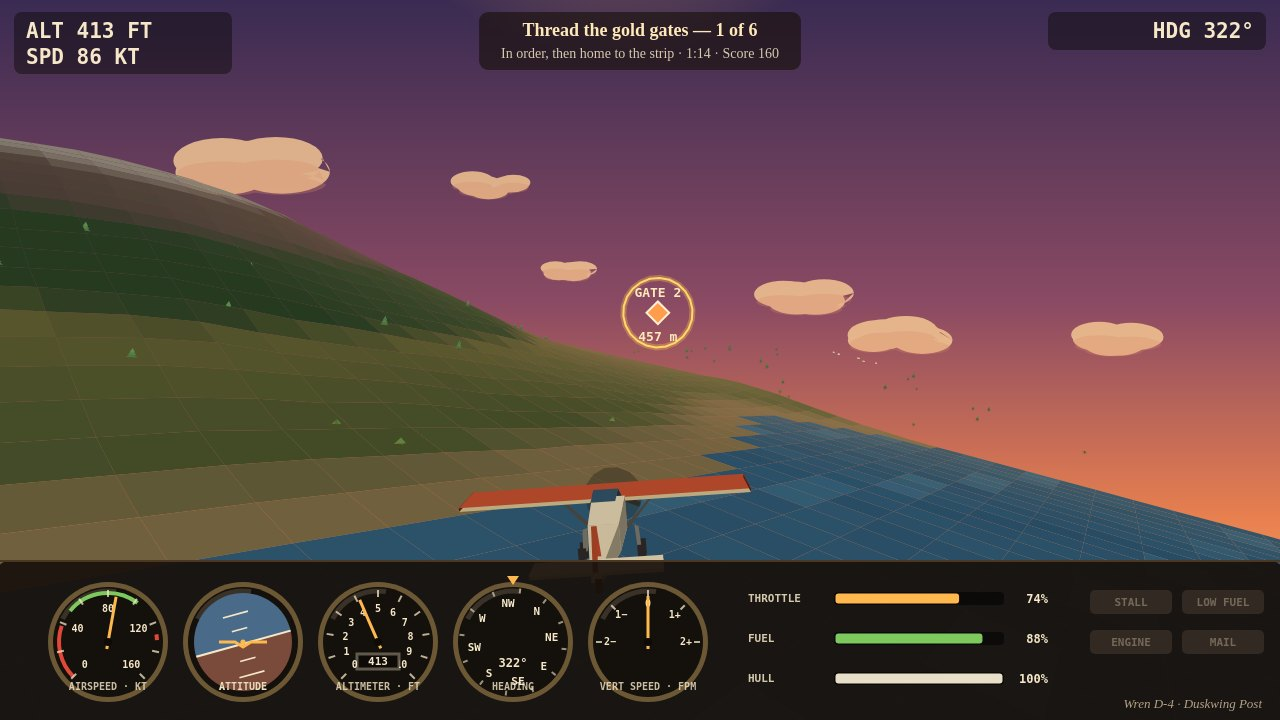
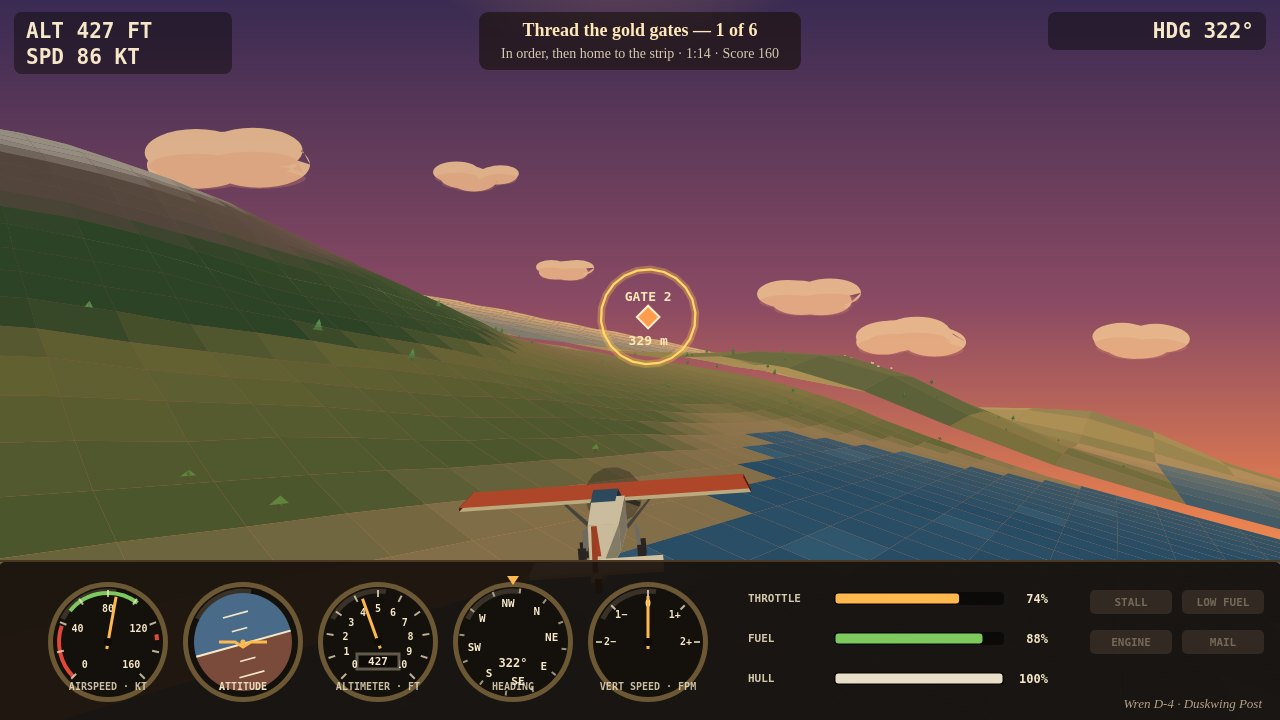
Revision 2: flight-feel and horizon fixes from live playtests
- Drag was 8x too strong: the Wren could never reach rotate speed.
  Quadratic drag now balances thrust near 115 kt and she rotates with
  strip to spare.
- Liftoff is explicit: at rotate speed with the nose up she leaves the
  ground with the climb her pitch asks for.
- A raised nose on the roll no longer bleeds speed (the ground carries
  her weight until the wing does), and the wings stay level on the
  ground — she steers with the tail wheel.
- Two-tier terrain: a coarse outer ring carries the world to the
  horizon, so low flight no longer ends in open sky at 1.2 km.
- Cover gate moved closer (329 m) so the gold ring looms; mail-drop
  staging re-posed so the parachute reads in frame.

diff --git a/game/src/render.js b/game/src/render.js
@@ -173,15 +173,23 @@ function drawRain(ctx, timeSec) {
 // --- terrain, sea and strip ----------------------------------------------
 
 function collectTerrain(list, basis, pal, storm, timeSec) {
-  const cx = Math.round(cam.x / CELL) * CELL;
-  const cz = Math.round(cam.z / CELL) * CELL;
-  const n = GRID_HALF * 2 + 1;
+  // Two tiers: a fine grid around the camera for the ground you fly over,
+  // and a coarse ring beyond it so the world reaches the horizon — at
+  // ground level a 1.2 km world would end in open sky.
+  collectTerrainLayer(list, basis, pal, storm, timeSec, CELL, GRID_HALF, 0);
+  collectTerrainLayer(list, basis, pal, storm, timeSec, 184, 16, 1210);
+}
+
+function collectTerrainLayer(list, basis, pal, storm, timeSec, cell, half, minCentreDist) {
+  const cx = Math.round(cam.x / cell) * cell;
+  const cz = Math.round(cam.z / cell) * cell;
+  const n = half * 2 + 1;
   // Project the shared vertex grid once; quads reuse the corners.
   const vx = new Float32Array(n);
   const vz = new Float32Array(n);
   const heights = [];
   const screen = [];
-  for (let i = 0; i < n; i++) { vx[i] = cx + (i - GRID_HALF) * CELL; vz[i] = cz + (i - GRID_HALF) * CELL; }
+  for (let i = 0; i < n; i++) { vx[i] = cx + (i - half) * cell; vz[i] = cz + (i - half) * cell; }
   for (let j = 0; j < n; j++) {
     heights.push(new Float32Array(n));
     screen.push(new Array(n));
@@ -197,6 +205,13 @@ function collectTerrain(list, basis, pal, storm, timeSec) {
       const h00 = heights[j][i], h10 = heights[j][i + 1], h01 = heights[j + 1][i], h11 = heights[j + 1][i + 1];
       const depth = (p00.depth + p10.depth + p01.depth + p11.depth) / 4;
       if (depth > 3400) continue;
+      if (minCentreDist > 0) {
+        // The coarse ring leaves the middle to the fine grid (a square
+        // hole, like the fine grid's own footprint).
+        const qx = Math.abs((vx[i] + vx[i + 1]) / 2 - cx);
+        const qz = Math.abs((vz[j] + vz[j + 1]) / 2 - cz);
+        if (Math.max(qx, qz) < minCentreDist) continue;
+      }
       const pts = [p00, p10, p11, p01];
       if (Math.max(h00, h10, h01, h11) < 0.05) {
         // Open water: flat quad at sea level, a whisper of per-cell tone
@@ -208,8 +223,8 @@ function collectTerrain(list, basis, pal, storm, timeSec) {
       } else {
         const avgH = (h00 + h10 + h01 + h11) / 4;
         // Surface normal from the corner heights, for the sun's shading.
-        const ex = { x: CELL, y: h10 - h00, z: 0 };
-        const ez = { x: 0, y: h01 - h00, z: CELL };
+        const ex = { x: cell, y: h10 - h00, z: 0 };
+        const ez = { x: 0, y: h01 - h00, z: cell };
         const nrm = norm3(ex.y * ez.z - ex.z * ez.y, ex.z * ez.x - ex.x * ez.z, ex.x * ez.y - ex.y * ez.x);
         const light = 0.6 + 0.47 * Math.max(0, nrm.x * SUN_DIR.x + nrm.y * SUN_DIR.y + nrm.z * SUN_DIR.z);
         const slope = 1 - Math.abs(nrm.y);

diff --git a/game/src/flight.js b/game/src/flight.js
@@ -58,23 +58,27 @@ export function stepFlight(plane, stick, dt, wind = { x: 0, z: 0 }) {
   plane.throttle = clamp(plane.throttle + stick.throttleDelta * FLIGHT.throttleRate * dt, 0, 1);
 
   // Attitude chases the stick; the chase is quick but never instant, which
-  // is what makes the controls feel connected at every speed.
-  const rollTarget = stick.bank * (FLIGHT.bankMax * Math.PI) / 180;
+  // is what makes the controls feel connected at every speed. On the
+  // ground the wings stay level — she steers with the tail wheel instead.
+  const rollTarget = stick.bank * (FLIGHT.bankMax * Math.PI) / 180 * (plane.onGround ? 0.05 : 1);
   const pitchTarget = stick.pitch * (FLIGHT.pitchMax * Math.PI) / 180;
   const chase = Math.min(1, dt * 3.6);
   plane.roll += (rollTarget - plane.roll) * chase;
   if (plane.onGround) {
     // On the roll the nose stays down until she is rotated at speed.
     const canRotate = plane.speedKt >= FLIGHT.rotateSpeed && stick.pitch > 0.2;
-    plane.pitch += ((canRotate ? pitchTarget * 0.55 : 0) - plane.pitch) * Math.min(1, dt * 2.4);
+    plane.pitch += ((canRotate ? pitchTarget * 0.55 : 0) - plane.pitch) * Math.min(1, dt * 3.2);
   } else {
     plane.pitch += (pitchTarget - plane.pitch) * chase;
   }
 
-  // Speed: thrust against quadratic drag and the hill of a climb.
+  // Speed: thrust against quadratic drag and, once airborne, the hill of
+  // a climb. At full throttle the drag balances thrust near 115 knots; on
+  // the roll she passes the 46-knot rotate speed with strip to spare.
+  // (On her wheels a raised nose costs nothing — the ground carries her.)
   let accel = plane.throttle * FLIGHT.accelFull
-    - FLIGHT.dragQuad * plane.speedKt * plane.speedKt * 8
-    - Math.sin(plane.pitch) * 21;
+    - FLIGHT.dragQuad * plane.speedKt * plane.speedKt
+    - (plane.onGround ? 0 : Math.sin(plane.pitch) * 21);
   if (plane.onGround) {
     accel -= 1.6; // rolling friction
     if (stick.brake) accel -= 15;
@@ -146,9 +150,14 @@ export function stepFlight(plane, stick, dt, wind = { x: 0, z: 0 }) {
     }
     plane.onGround = true;
     if (plane.speedKt < 2) plane.vy = 0;
-  } else if (plane.onGround && plane.y > floorY + 0.4) {
-    plane.onGround = false;
-    events.push({ type: 'liftoff' });
+    // Rotation: fast enough, nose up, and the wing takes the weight — she
+    // leaves the ground with the climb her pitch asks for.
+    if (plane.speedKt >= FLIGHT.rotateSpeed && plane.pitch > 0.04) {
+      plane.onGround = false;
+      plane.y = floorY + 0.6;
+      plane.vy = Math.sin(plane.pitch) * speedMs * 0.92;
+      events.push({ type: 'liftoff' });
+    }
   }
   // Rolling into rising ground or water at speed ends the flight too.
   if (plane.onGround && !plane.crashed) {

diff --git a/game/src/shots.js b/game/src/shots.js
@@ -76,7 +76,7 @@ function stageCover(G) {
 function stageMaildrop(G) {
   const campaign = { hull: 100, score: 1120, results: [], repairNote: 0, verdict: '' };
   const sortie = new Sortie(SORTIE_DEFS[1], campaign);
-  sortie.timeSec = 188;
+  sortie.timeSec = 96;
   sortie.fuel = 79;
   sortie.tookOff = true;
   G.campaign = campaign;
@@ -88,7 +88,7 @@ function stageMaildrop(G) {
     speedKt: 78, throttle: 0.62,
   });
   sortie.parcels.push({
-    x: 545, y: 66, z: -1395, vx: 2.6, vy: -5.4, vz: 0.9,
+    x: 514, y: 83, z: -1353, vx: 2.6, vy: -5.4, vz: 0.9,
     age: 3, chute: true, landed: false, target: sortie.targets[0],
   });
   sortie.parcelsAboard = 2;
